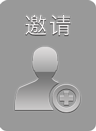
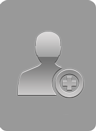
上海麻将
分享信息语修改

diff --git a/Mahjong/Classes/game/mahjong/share/HongbaoPride.cpp b/Mahjong/Classes/game/mahjong/share/HongbaoPride.cpp
@@ -105,19 +105,19 @@ void  HongbaoPride::closeView(){
 void HongbaoPride::doFaHongBaoPerson(){
 #if (CC_TARGET_PLATFORM == CC_PLATFORM_ANDROID)
     std::string url = StringUtils::format("%s?hbcode=%s",WECHAT_SHARE_HONGBAO_URL,GAMEDATA::getInstance()->getRedWalletRespData().hbcode.c_str());
-    CallAndroidMethod::getInstance()->shareToWeChat(url,"来来来！敲麻发红包了", "20花敲麻，帮好朋友一道开房间搓麻将，点我领红包",false);
+    CallAndroidMethod::getInstance()->shareToWeChat(url,SHARE_TEXT_1, SHARE_TEXT_2,false);
 #elif (CC_TARGET_PLATFORM == CC_PLATFORM_IOS)
     std::string url = StringUtils::format("%s?hbcode=%s",WECHAT_SHARE_HONGBAO_URL,GAMEDATA::getInstance()->getRedWalletRespData().hbcode.c_str());
-    IOSBridge::getInstance()->doWechatShareWeb(url,"来来来！敲麻发红包了", "20花敲麻，帮好朋友一道开房间搓麻将，点我领红包");
+    IOSBridge::getInstance()->doWechatShareWeb(url,SHARE_TEXT_1, SHARE_TEXT_2);
 #endif
 }
 
 void HongbaoPride:: doFaHongBaoFriend(){
 #if (CC_TARGET_PLATFORM == CC_PLATFORM_ANDROID)
      std::string url = StringUtils::format("%s?hbcode=%s",WECHAT_SHARE_HONGBAO_URL,GAMEDATA::getInstance()->getRedWalletRespData().hbcode.c_str());
-    CallAndroidMethod::getInstance()->shareToWeChat(url,"来来来！敲麻发红包了", "20花敲麻，帮好朋友一道开房间搓麻将，点我领红包",true);
+    CallAndroidMethod::getInstance()->shareToWeChat(url,SHARE_TEXT_1, SHARE_TEXT_2,true);
 #elif (CC_TARGET_PLATFORM == CC_PLATFORM_IOS)
     std::string url = StringUtils::format("%s?hbcode=%s",WECHAT_SHARE_HONGBAO_URL,GAMEDATA::getInstance()->getRedWalletRespData().hbcode.c_str());
-    IOSBridge::getInstance()->doWechatShareWeb(url, "来来来！敲麻发红包了", "20花敲麻，帮好朋友一道开房间搓麻将，点我领红包");
+    IOSBridge::getInstance()->doWechatShareWeb(url, SHARE_TEXT_1, SHARE_TEXT_2);
 #endif
 }

diff --git a/Mahjong/Classes/game/mahjong/core/gui/GuiLayer.cpp b/Mahjong/Classes/game/mahjong/core/gui/GuiLayer.cpp
@@ -243,10 +243,10 @@ void GuiLayer::drawPlayerInvite(){
 }
 
 void GuiLayer::invitePlayer(Ref* ref){
-#if (CC_TARGET_PLATFORM == CC_PLATFORM_ANDROID)
-    CallAndroidMethod::getInstance()->shareToWeChat(WECHAT_SHARE_FRIEND_URL,"房间开好，就等侬了！",StringUtils::format("房间号:%s",GAMEDATA::getInstance()->getFriendOpenRoomResp().prid.c_str()),false);
-#elif (CC_TARGET_PLATFORM == CC_PLATFORM_IOS)
-    IOSBridge::getInstance()->doWechatShareWeb(WECHAT_SHARE_FRIEND_URL,"房间开好，就等侬了！", StringUtils::format("房间号:%s",GAMEDATA::getInstance()->getFriendOpenRoomResp().prid.c_str()));
-#endif
+//#if (CC_TARGET_PLATFORM == CC_PLATFORM_ANDROID)
+//    CallAndroidMethod::getInstance()->shareToWeChat(WECHAT_SHARE_FRIEND_URL,"房间开好，就等侬了！",StringUtils::format("房间号:%s",GAMEDATA::getInstance()->getFriendOpenRoomResp().prid.c_str()),false);
+//#elif (CC_TARGET_PLATFORM == CC_PLATFORM_IOS)
+//    IOSBridge::getInstance()->doWechatShareWeb(WECHAT_SHARE_FRIEND_URL,"房间开好，就等侬了！", StringUtils::format("房间号:%s",GAMEDATA::getInstance()->getFriendOpenRoomResp().prid.c_str()));
+//#endif
 }
 

diff --git a/Mahjong/Classes/game/mahjong/player/PlayerHero.cpp b/Mahjong/Classes/game/mahjong/player/PlayerHero.cpp
@@ -288,9 +288,9 @@ void PlayerHero::readyGo(){
 
 void PlayerHero::inviteWechatFriend(){
 #if (CC_TARGET_PLATFORM == CC_PLATFORM_ANDROID)
-    CallAndroidMethod::getInstance()->shareToWeChat(WECHAT_SHARE_FRIEND_URL,"房间开好，就等侬了！",StringUtils::format("房间号:%s",GAMEDATA::getInstance()->getFriendOpenRoomResp().prid.c_str()),false);
+    CallAndroidMethod::getInstance()->shareToWeChat(WECHAT_SHARE_FRIEND_URL,StringUtils::format("房号%s就等侬了!",GAMEDATA::getInstance()->getFriendOpenRoomResp().prid.c_str()),SHARE_TEXT_3,false);
 #elif (CC_TARGET_PLATFORM == CC_PLATFORM_IOS)
-    IOSBridge::getInstance()->doWechatShareWeb(WECHAT_SHARE_FRIEND_URL,"房间开好，就等侬了！", StringUtils::format("房间号:%s",GAMEDATA::getInstance()->getFriendOpenRoomResp().prid.c_str()));
+    IOSBridge::getInstance()->doWechatShareWeb(WECHAT_SHARE_FRIEND_URL,StringUtils::format("房号%s就等侬了!",GAMEDATA::getInstance()->getFriendOpenRoomResp().prid.c_str()),SHARE_TEXT_3);
 #endif
 }
 

diff --git a/Mahjong/Classes/game/utils/GameConfig.h b/Mahjong/Classes/game/utils/GameConfig.h
@@ -18,4 +18,7 @@
 #define WECHAT_SHARE_FRIEND_URL "http://wyhl.5278-mobi.com:1111/majiang.html"
 
 #define IAMGE_LOADING "image_loading"
+#define SHARE_TEXT_1 "敲麻好兑话费,是朋友才告诉侬格"
+#define SHARE_TEXT_2 "敲麻赢了乐券可以换话费,阿拉一道赚话费去!"
+#define SHARE_TEXT_3 "来来来,房间开好了,麻将搓起来!"
 #endif /* GameConfig_h */
